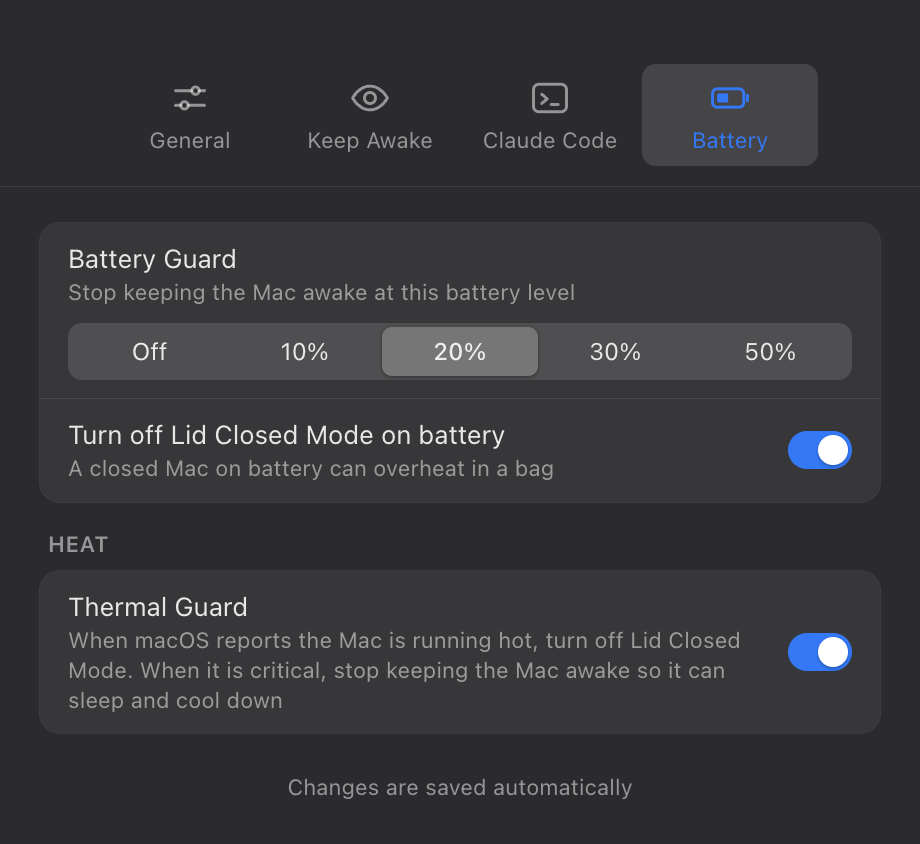
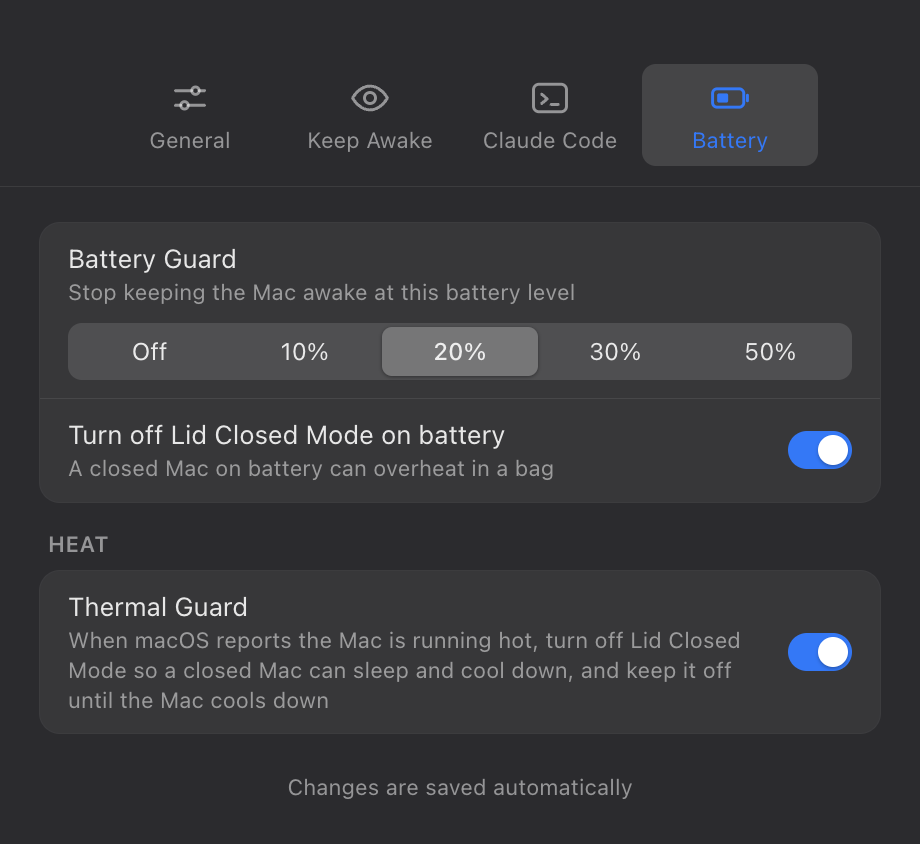
fix(thermal): act on Lid Closed Mode only, wait for a busy lid task, re-check after the dialog
Staying awake with the lid open does not heat the Mac, so Thermal Guard no longer
stops sessions, waits or Smart Mode; it turns off Lid Closed Mode (and the session
it started) and keeps it off while the Mac is hot. A lid task in progress is waited
for instead of reported as a failed restore, the heat is re-checked after the
confirmation dialog and on wake, and a failed state read is logged.

Changed region(s): [[0.0913, 0.7701, 0.7913, 0.8626]]

diff --git a/main/main.js b/main/main.js
@@ -9,7 +9,7 @@ const { ProcessWatcher } = require('./process-watch');
 const { DEFAULT_IDLE_MINUTES, normalizeIdleMinutes, shouldArmIdleTimer, idleDelayMs } = require('./claude-lid');
 const { warningPlan, extendedEndTime, minutesLeft, extendLabel } = require('./timer-warning');
 const { GUARD_LEVELS, DEFAULT_GUARD_PERCENT, BatteryMonitor, normalizeGuardPercent, shouldMonitor, shouldStop, shouldResumeSmartMode, lidModeAllowed } = require('./battery-guard');
-const { thermalAction, lidModeAllowedWhenHot, smartModeAllowedWhenHot } = require('./thermal-guard');
+const { shouldTurnOffLidMode, lidModeAllowedWhenHot } = require('./thermal-guard');
 const { parseCommandUrl, MAX_MINUTES } = require('./url-commands');
 const { ClaudeWatcher, URL_SCHEME, CLAUDE_SETTINGS, readClaudeSettings, writeClaudeSettings, hasHooks, addHooks, removeHooks } = require('./claude-watch');
 
@@ -83,8 +83,6 @@ let onBattery = false;
 let lastBatteryPercent = null;
 let guardStopping = false;
 let thermalState = 'unknown';
-let thermalStopping = false;
-let thermalLidTried = false;
 const pendingUrls = [];
 const iconCache = new Map();
 
@@ -673,7 +671,7 @@ function refreshTray () {
     invalidateMenu();
     updateBatteryMonitoring();
     updateLidIdleTimer();
-    evaluateThermalGuard();
+    evaluateThermalGuard().catch((error) => console.error('Thermal Guard:', error));
 }
 
 function isKeepingAwake () {
@@ -754,7 +752,7 @@ async function evaluateBatteryGuard () {
 }
 
 function resumeSmartModeIfAllowed () {
-    if (claudeWatcher?.suspended && shouldResumeSmartMode({ guardPercent: guardPercent(), onBattery, percent: lastBatteryPercent }) && smartModeAllowedWhenHot({ enabled: settings.thermalGuard, state: thermalState })) {
+    if (claudeWatcher?.suspended && shouldResumeSmartMode({ guardPercent: guardPercent(), onBattery, percent: lastBatteryPercent })) {
         claudeWatcher.resume();
     }
 }
@@ -791,52 +789,38 @@ function setLidOffOnBattery (value) {
 
 function currentThermalState () {
     try {
-        return powerMonitor.getCurrentThermalState?.() ?? 'unknown';
-    } catch {
+        return powerMonitor.getCurrentThermalState();
+    } catch (error) {
+        console.error('Thermal Guard: could not read the thermal state:', error);
         return 'unknown';
     }
 }
 
 function onThermalStateChange () {
     thermalState = currentThermalState();
-    thermalLidTried = false;
-    resumeSmartModeIfAllowed();
     refreshTray();
 }
 
 async function evaluateThermalGuard () {
-    if (thermalStopping || !lidSleep || !processWatcher) return;
-    const lidOn = !thermalLidTried && (lidSleep.active || lidSleep.pending);
-    const keepingAwake = lidOn || isPlaying || Boolean(claudeWatcher?.count) || Boolean(processWatcher.count);
-    const action = thermalAction({ enabled: settings.thermalGuard, state: thermalState, lidOn, keepingAwake });
-    if (action === 'none') return;
-    thermalStopping = true;
-    try {
-        let lidRestored = true;
-        if (lidOn) {
-            thermalLidTried = true;
-            if (lidSleep.pending) lidSleep.killToken();
-            if (lidSleep.active) lidRestored = Boolean((await disableLidMode())?.restored);
-        }
-        if (action === 'stop-all') {
-            stopPlayback();
-            if (settings.smartMode) claudeWatcher.suspend();
-            processWatcher.unwatchAll();
-        }
-        if (!lidRestored) notify('The Mac is running hot', 'Insomnia tried to turn off Lid Closed Mode, but sleep is still disabled. Open the Insomnia menu and choose "Restore Normal Sleep…".');
-        else if (action === 'stop-all') notify('The Mac is too hot', `Insomnia stopped keeping it awake so it can sleep and cool down (Thermal Guard).${settings.smartMode ? ' Smart Mode resumes when it cools down.' : ''}`);
-        else notify('The Mac is running hot', 'Insomnia turned off Lid Closed Mode so the Mac can sleep and cool down (Thermal Guard).');
-    } finally {
-        thermalStopping = false;
-        refreshTray();
+    if (!lidSleep) return;
+    if (!shouldTurnOffLidMode({ enabled: settings.thermalGuard, state: thermalState, lidOn: lidSleep.active || lidSleep.pending, lidBusy })) return;
+    if (lidSleep.pending) {
+        lidSleep.killToken();
+        notify('Lid Closed Mode turned off', 'The Mac is running hot, so Insomnia did not turn on Lid Closed Mode (Thermal Guard).');
+        return;
     }
+    const startedByLid = lidStartedPlayback;
+    const result = await disableLidMode();
+    if (!result?.restored) return;
+    if (startedByLid) stopPlayback();
+    notify('Lid Closed Mode turned off', startedByLid
+        ? 'The Mac is running hot, so Insomnia turned off Lid Closed Mode and the session it started. The Mac can sleep and cool down (Thermal Guard).'
+        : 'The Mac is running hot, so Insomnia turned off Lid Closed Mode. With the lid closed, the Mac can sleep and cool down (Thermal Guard).');
 }
 
 function setThermalGuard (value) {
     settings.thermalGuard = value;
     saveSettings();
-    thermalLidTried = false;
-    resumeSmartModeIfAllowed();
     refreshTray();
 }
 
@@ -848,7 +832,7 @@ function batteryMenuItems () {
         { type: 'separator' },
         { label: 'Turn Off Lid Closed Mode on Battery', type: 'checkbox', checked: settings.lidOffOnBattery, click: () => toggleLidOffOnBattery() },
         { type: 'separator' },
-        { label: 'Thermal Guard: Stop When the Mac Is Hot', type: 'checkbox', checked: settings.thermalGuard, click: () => setThermalGuard(!settings.thermalGuard) }
+        { label: 'Thermal Guard: Turn Off Lid Closed Mode When Hot', type: 'checkbox', checked: settings.thermalGuard, click: () => setThermalGuard(!settings.thermalGuard) }
     ];
 }
 
@@ -1061,6 +1045,11 @@ function toggleLidMode () {
     }
     return runLidTask(async () => {
         if (!(await confirmLidMode())) return;
+        thermalState = currentThermalState();
+        if (!lidModeAllowedWhenHot({ enabled: settings.thermalGuard, state: thermalState })) {
+            notify('Lid closed mode is off while the Mac is hot', 'Let it cool down first, or turn off Thermal Guard in Settings → Battery.');
+            return;
+        }
         const wasPlaying = isPlaying;
         lidStartedPlayback = !wasPlaying;
         startPlayback();
@@ -1189,9 +1178,10 @@ if (!app.requestSingleInstanceLock()) {
         }
         powerMonitor.on('on-battery', () => onPowerSourceChange(true));
         powerMonitor.on('on-ac', () => onPowerSourceChange(false));
-        thermalState = currentThermalState();
         powerMonitor.on('thermal-state-change', onThermalStateChange);
+        onThermalStateChange();
         powerMonitor.on('resume', () => {
+            onThermalStateChange();
             if (isPlaying && endTime) scheduleTimers();
             const battery = powerMonitor.isOnBatteryPower();
             if (battery !== onBattery) onPowerSourceChange(battery);

diff --git a/test/thermal-guard.test.js b/test/thermal-guard.test.js
@@ -1,30 +1,23 @@
 const test = require('node:test');
 const assert = require('node:assert/strict');
-const { thermalAction, lidModeAllowedWhenHot, smartModeAllowedWhenHot } = require('../main/thermal-guard');
+const { shouldTurnOffLidMode, lidModeAllowedWhenHot } = require('../main/thermal-guard');
 
-test('Thermal Guard turns off Lid Closed Mode when the Mac runs hot and stops everything when it is critical', () => {
-    const cases = [
-        ['nominal, lid on', { state: 'nominal', lidOn: true, keepingAwake: true }, 'none'],
-        ['fair, lid on', { state: 'fair', lidOn: true, keepingAwake: true }, 'none'],
-        ['serious, lid on', { state: 'serious', lidOn: true, keepingAwake: true }, 'lid-off'],
-        ['serious, session only', { state: 'serious', lidOn: false, keepingAwake: true }, 'none'],
-        ['critical, session only', { state: 'critical', lidOn: false, keepingAwake: true }, 'stop-all'],
-        ['critical, lid on', { state: 'critical', lidOn: true, keepingAwake: true }, 'stop-all'],
-        ['critical, nothing awake', { state: 'critical', lidOn: false, keepingAwake: false }, 'none'],
-        ['unknown state', { state: 'unknown', lidOn: true, keepingAwake: true }, 'none']
-    ];
-    for (const [name, input, expected] of cases) assert.equal(thermalAction({ enabled: true, ...input }), expected, name);
-});
+const cases = [
+    ['fair: Lid Closed Mode stays on', { state: 'fair', lidOn: true }, false],
+    ['serious: Lid Closed Mode turns off', { state: 'serious', lidOn: true }, true],
+    ['critical: Lid Closed Mode turns off', { state: 'critical', lidOn: true }, true],
+    ['hot without Lid Closed Mode: nothing to do', { state: 'critical', lidOn: false }, false],
+    ['hot while another lid task runs: wait for it', { state: 'serious', lidOn: true, lidBusy: true }, false],
+    ['unknown state: nothing to do', { state: 'unknown', lidOn: true }, false],
+    ['guard off: nothing to do', { enabled: false, state: 'critical', lidOn: true }, false]
+];
 
-test('Thermal Guard does nothing when it is turned off', () => {
-    assert.equal(thermalAction({ enabled: false, state: 'critical', lidOn: true, keepingAwake: true }), 'none');
-    assert.equal(lidModeAllowedWhenHot({ enabled: false, state: 'critical' }), true);
-    assert.equal(smartModeAllowedWhenHot({ enabled: false, state: 'critical' }), true);
-});
+for (const [name, input, expected] of cases) {
+    test(name, () => assert.equal(shouldTurnOffLidMode({ enabled: true, lidBusy: false, ...input }), expected));
+}
 
-test('Lid Closed Mode cannot start while the Mac is hot, and Smart Mode waits only while it is critical', () => {
+test('Lid Closed Mode cannot be turned on while the Mac is hot, unless Thermal Guard is off', () => {
     assert.equal(lidModeAllowedWhenHot({ enabled: true, state: 'fair' }), true);
     assert.equal(lidModeAllowedWhenHot({ enabled: true, state: 'serious' }), false);
-    assert.equal(smartModeAllowedWhenHot({ enabled: true, state: 'serious' }), true);
-    assert.equal(smartModeAllowedWhenHot({ enabled: true, state: 'critical' }), false);
+    assert.equal(lidModeAllowedWhenHot({ enabled: false, state: 'critical' }), true);
 });

diff --git a/renderer/guide.html b/renderer/guide.html
@@ -770,10 +770,10 @@
                 <li>The guard only listens to the system while the Mac is on battery and being kept awake, so it costs nothing otherwise.</li>
             </ul>
             <h3>Thermal Guard</h3>
-            <p>macOS tells apps when the Mac runs hot. With <span class="ui">Thermal Guard</span> on (the default), Insomnia listens and steps back:</p>
+            <p>A closed Mac that cannot sleep is the one that overheats. With <span class="ui">Thermal Guard</span> on (the default), Insomnia listens to the heat level macOS reports:</p>
             <ul>
-                <li><strong>Running hot:</strong> Lid Closed Mode turns off, so a closed Mac can sleep, and it cannot be turned on until the Mac cools down.</li>
-                <li><strong>Critical:</strong> everything that keeps the Mac awake stops. Smart Mode resumes on its own once the Mac cools down.</li>
+                <li><strong>Running hot:</strong> Lid Closed Mode turns off, so a closed Mac can sleep and cool down, and it cannot be turned on again until the Mac cools down.</li>
+                <li><strong>Lid open:</strong> sessions, process waits and Smart Mode keep running. Staying awake does not heat the Mac, the work does, and macOS slows it down on its own.</li>
                 <li>It costs nothing: macOS sends the event, Insomnia never polls. Turn it off in Settings → Battery or the Battery Guard menu.</li>
             </ul>
             <div class="figure"><picture><source srcset="guide/settings-battery-dark.png" media="(prefers-color-scheme: dark)"><img class="shot" src="guide/settings-battery-light.png" alt="The Battery tab in Settings"></picture></div>

diff --git a/main/thermal-guard.js b/main/thermal-guard.js
@@ -1,22 +1,15 @@
 const HOT_STATES = ['serious', 'critical'];
 
-function isHot (state) {
-    return HOT_STATES.includes(state);
+function isHot ({ enabled, state }) {
+    return Boolean(enabled) && HOT_STATES.includes(state);
 }
 
-function thermalAction ({ enabled, state, lidOn, keepingAwake }) {
-    if (!enabled) return 'none';
-    if (state === 'critical' && keepingAwake) return 'stop-all';
-    if (isHot(state) && lidOn) return 'lid-off';
-    return 'none';
+function shouldTurnOffLidMode ({ enabled, state, lidOn, lidBusy }) {
+    return isHot({ enabled, state }) && lidOn && !lidBusy;
 }
 
 function lidModeAllowedWhenHot ({ enabled, state }) {
-    return !(enabled && isHot(state));
+    return !isHot({ enabled, state });
 }
 
-function smartModeAllowedWhenHot ({ enabled, state }) {
-    return !(enabled && state === 'critical');
-}
-
-module.exports = { thermalAction, lidModeAllowedWhenHot, smartModeAllowedWhenHot };
+module.exports = { shouldTurnOffLidMode, lidModeAllowedWhenHot };

diff --git a/renderer/settings.html b/renderer/settings.html
@@ -449,7 +449,7 @@
                 <label class="row">
                     <span class="label">
                         <span>Thermal Guard</span>
-                        <span class="caption">When macOS reports the Mac is running hot, turn off Lid Closed Mode. When it is critical, stop keeping the Mac awake so it can sleep and cool down</span>
+                        <span class="caption">When macOS reports the Mac is running hot, turn off Lid Closed Mode so a closed Mac can sleep and cool down, and keep it off until the Mac cools down</span>
                     </span>
                     <input class="switch" type="checkbox" data-setting="thermalGuard">
                 </label>

diff --git a/README.md b/README.md
@@ -42,7 +42,7 @@ Settings is split into tabs and the window resizes to each one. The windows foll
 - ⏱ **Set Duration** – Choose 30 min, 1 hour, 2 hours, or infinite
 - ⏰ **Timer Reminder** – A notification five minutes before the timer ends. Clicking it opens the menu, where **Add 30 Minutes** extends the session
 - 🔋 **Battery Guard** – Stops keeping the Mac awake when the battery runs low (20% by default), and turns off Lid Closed Mode on battery
-- 🌡 **Thermal Guard** – Turns off Lid Closed Mode when macOS reports the Mac is running hot, and stops keeping it awake when the heat is critical
+- 🌡 **Thermal Guard** – Turns off Lid Closed Mode when macOS reports the Mac is running hot, so a closed Mac can sleep and cool down
 - ⏳ **Keep Awake Until a Process Ends** – Pick a busy app or tool (a build, a render, a download) and stay awake until it finishes, with a notification when it does
 - 🖥 **Let the Display Sleep** – Keep the Mac running but let the screen turn off, to save power during downloads, builds or long Claude runs
 - 🔊 **Sound Effects** – Optional feedback for start/stop
@@ -158,9 +158,9 @@ A notification says when it does.
 - Starting a session below the guard level stops it again right away, with the same notification. Lower the level or set it to Off to override. That also resumes a paused Smart Mode.
 
 **Thermal Guard** (Settings → Battery, or the Battery Guard menu, on by default) listens to macOS thermal-state notifications, so it never polls:
-- When the Mac is **running hot** (`serious`), Lid Closed Mode is turned off and cannot be turned on until the Mac cools down. A closed Mac that cannot sleep is the case that overheats.
-- When the heat is **critical**, everything that keeps the Mac awake stops: the session, process waits and Smart Mode holds. Smart Mode resumes on its own once the Mac cools down.
-- A notification says what it did. If sleep cannot be restored, it says so and points to **Restore Normal Sleep…**.
+- When the Mac is **running hot** (`serious` or `critical`), Lid Closed Mode is turned off, together with the session it started, and cannot be turned on until the Mac cools down. A closed Mac that cannot sleep is the case that overheats.
+- With the lid open, sessions, process waits and Smart Mode keep running. Staying awake does not heat the Mac, the work does, and macOS slows the work down on its own.
+- A notification says what it did. If sleep cannot be restored, the notification points to **Restore Normal Sleep…**.
 
 ---
 
